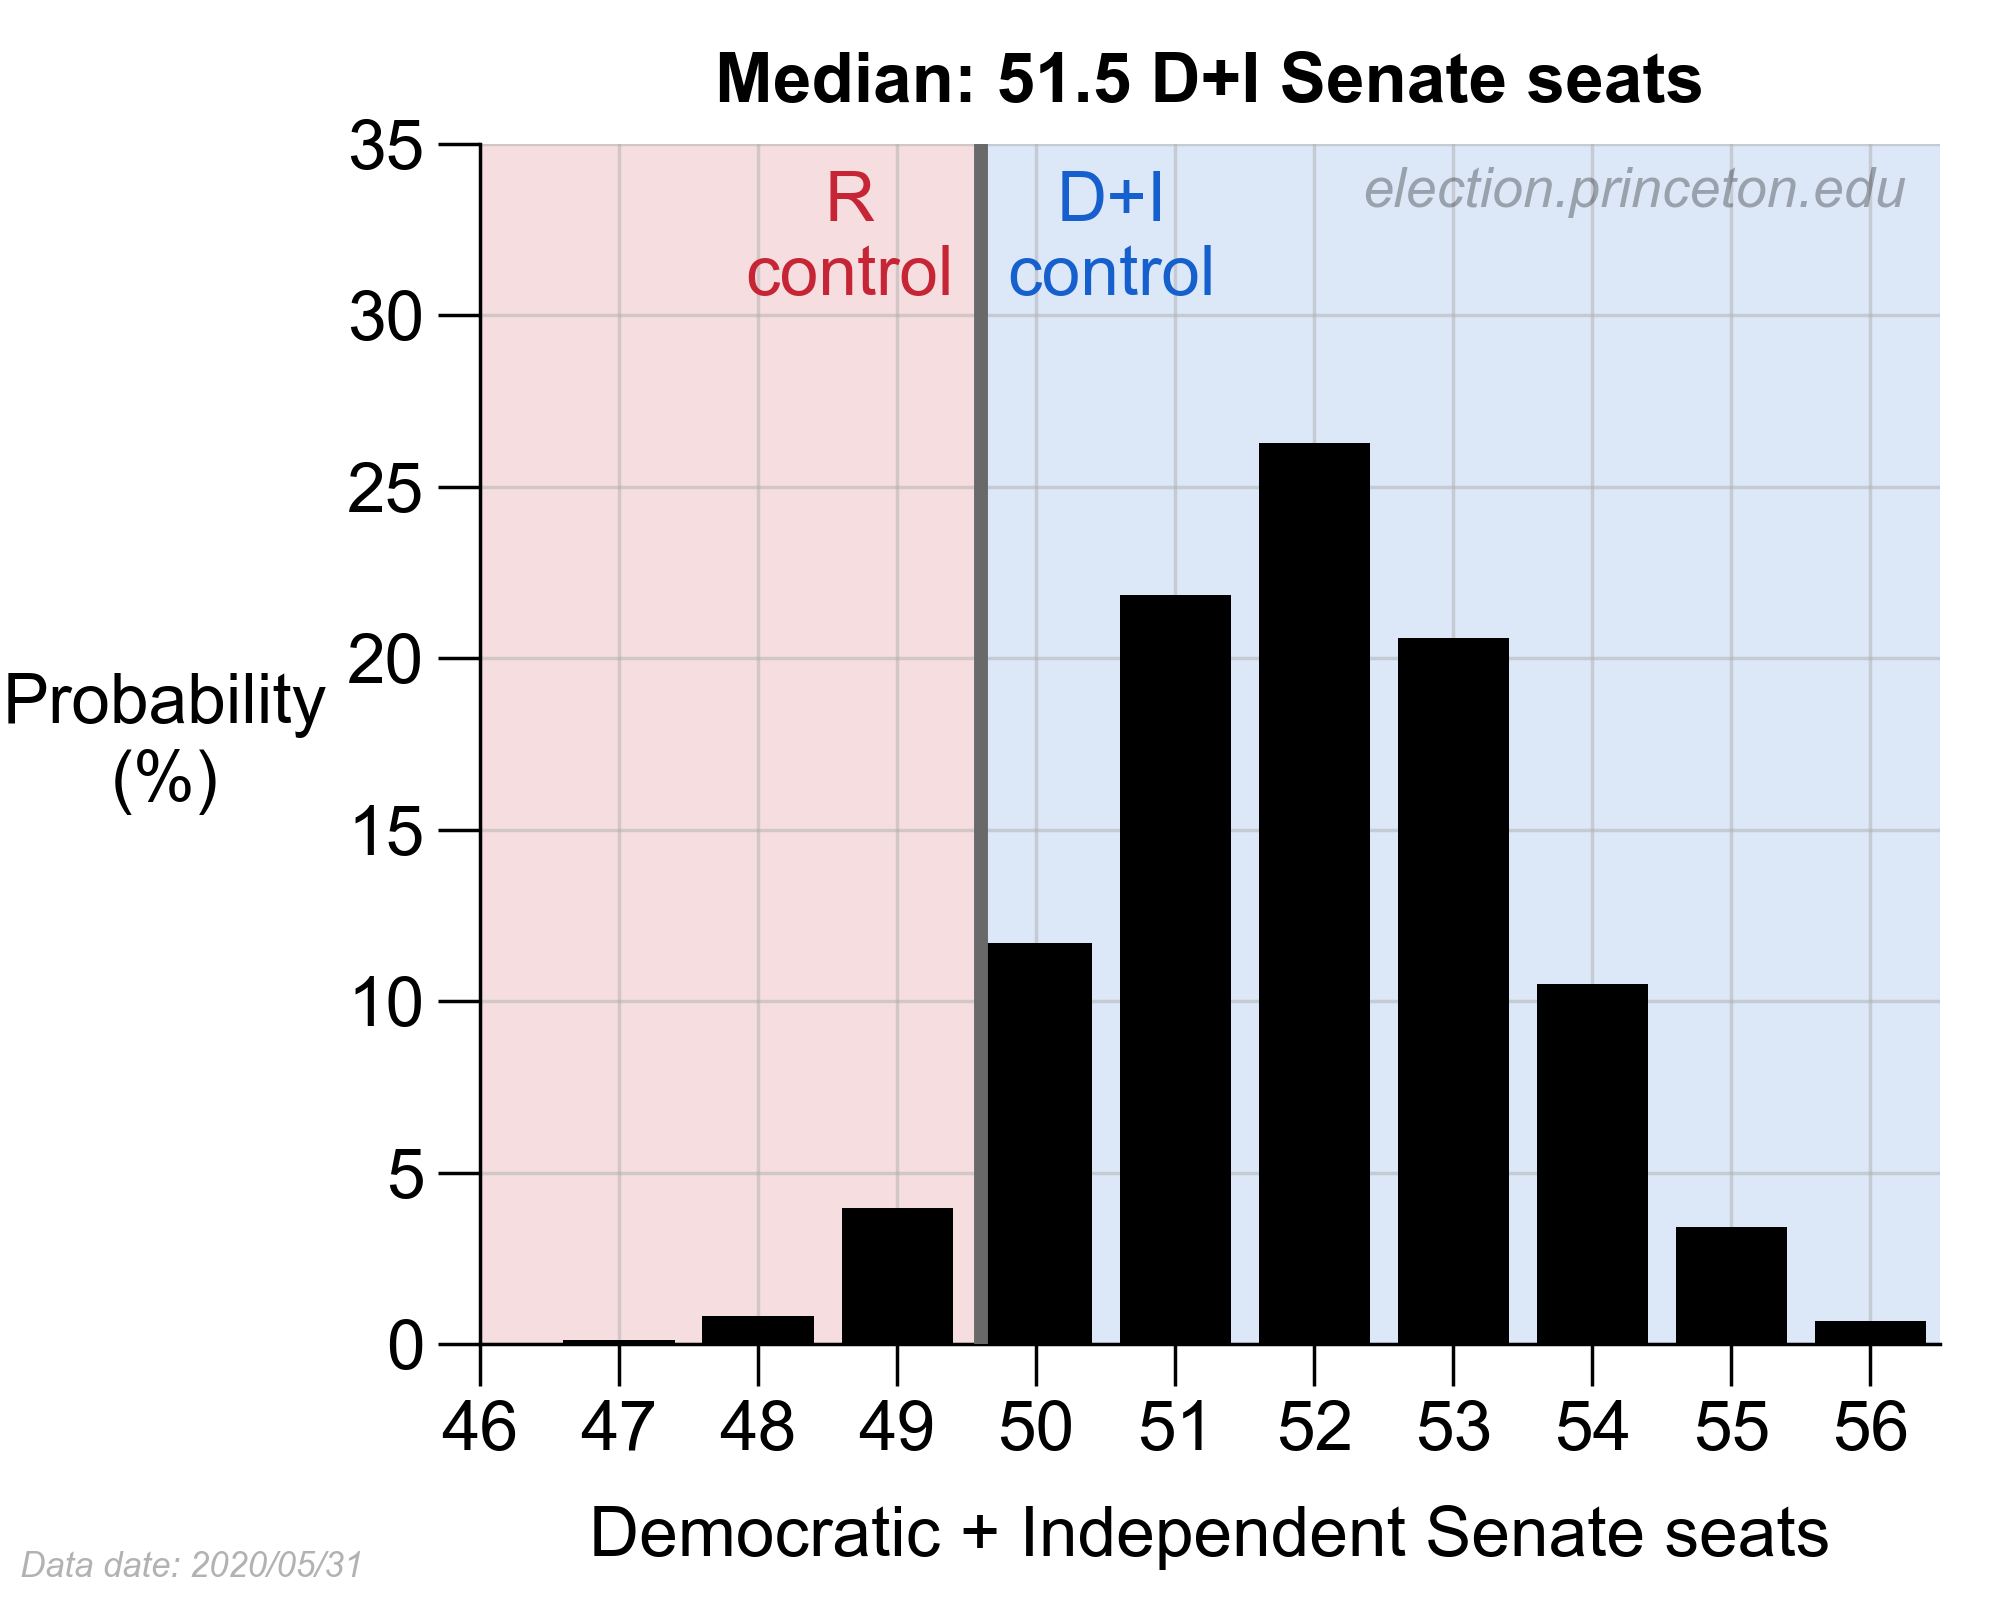
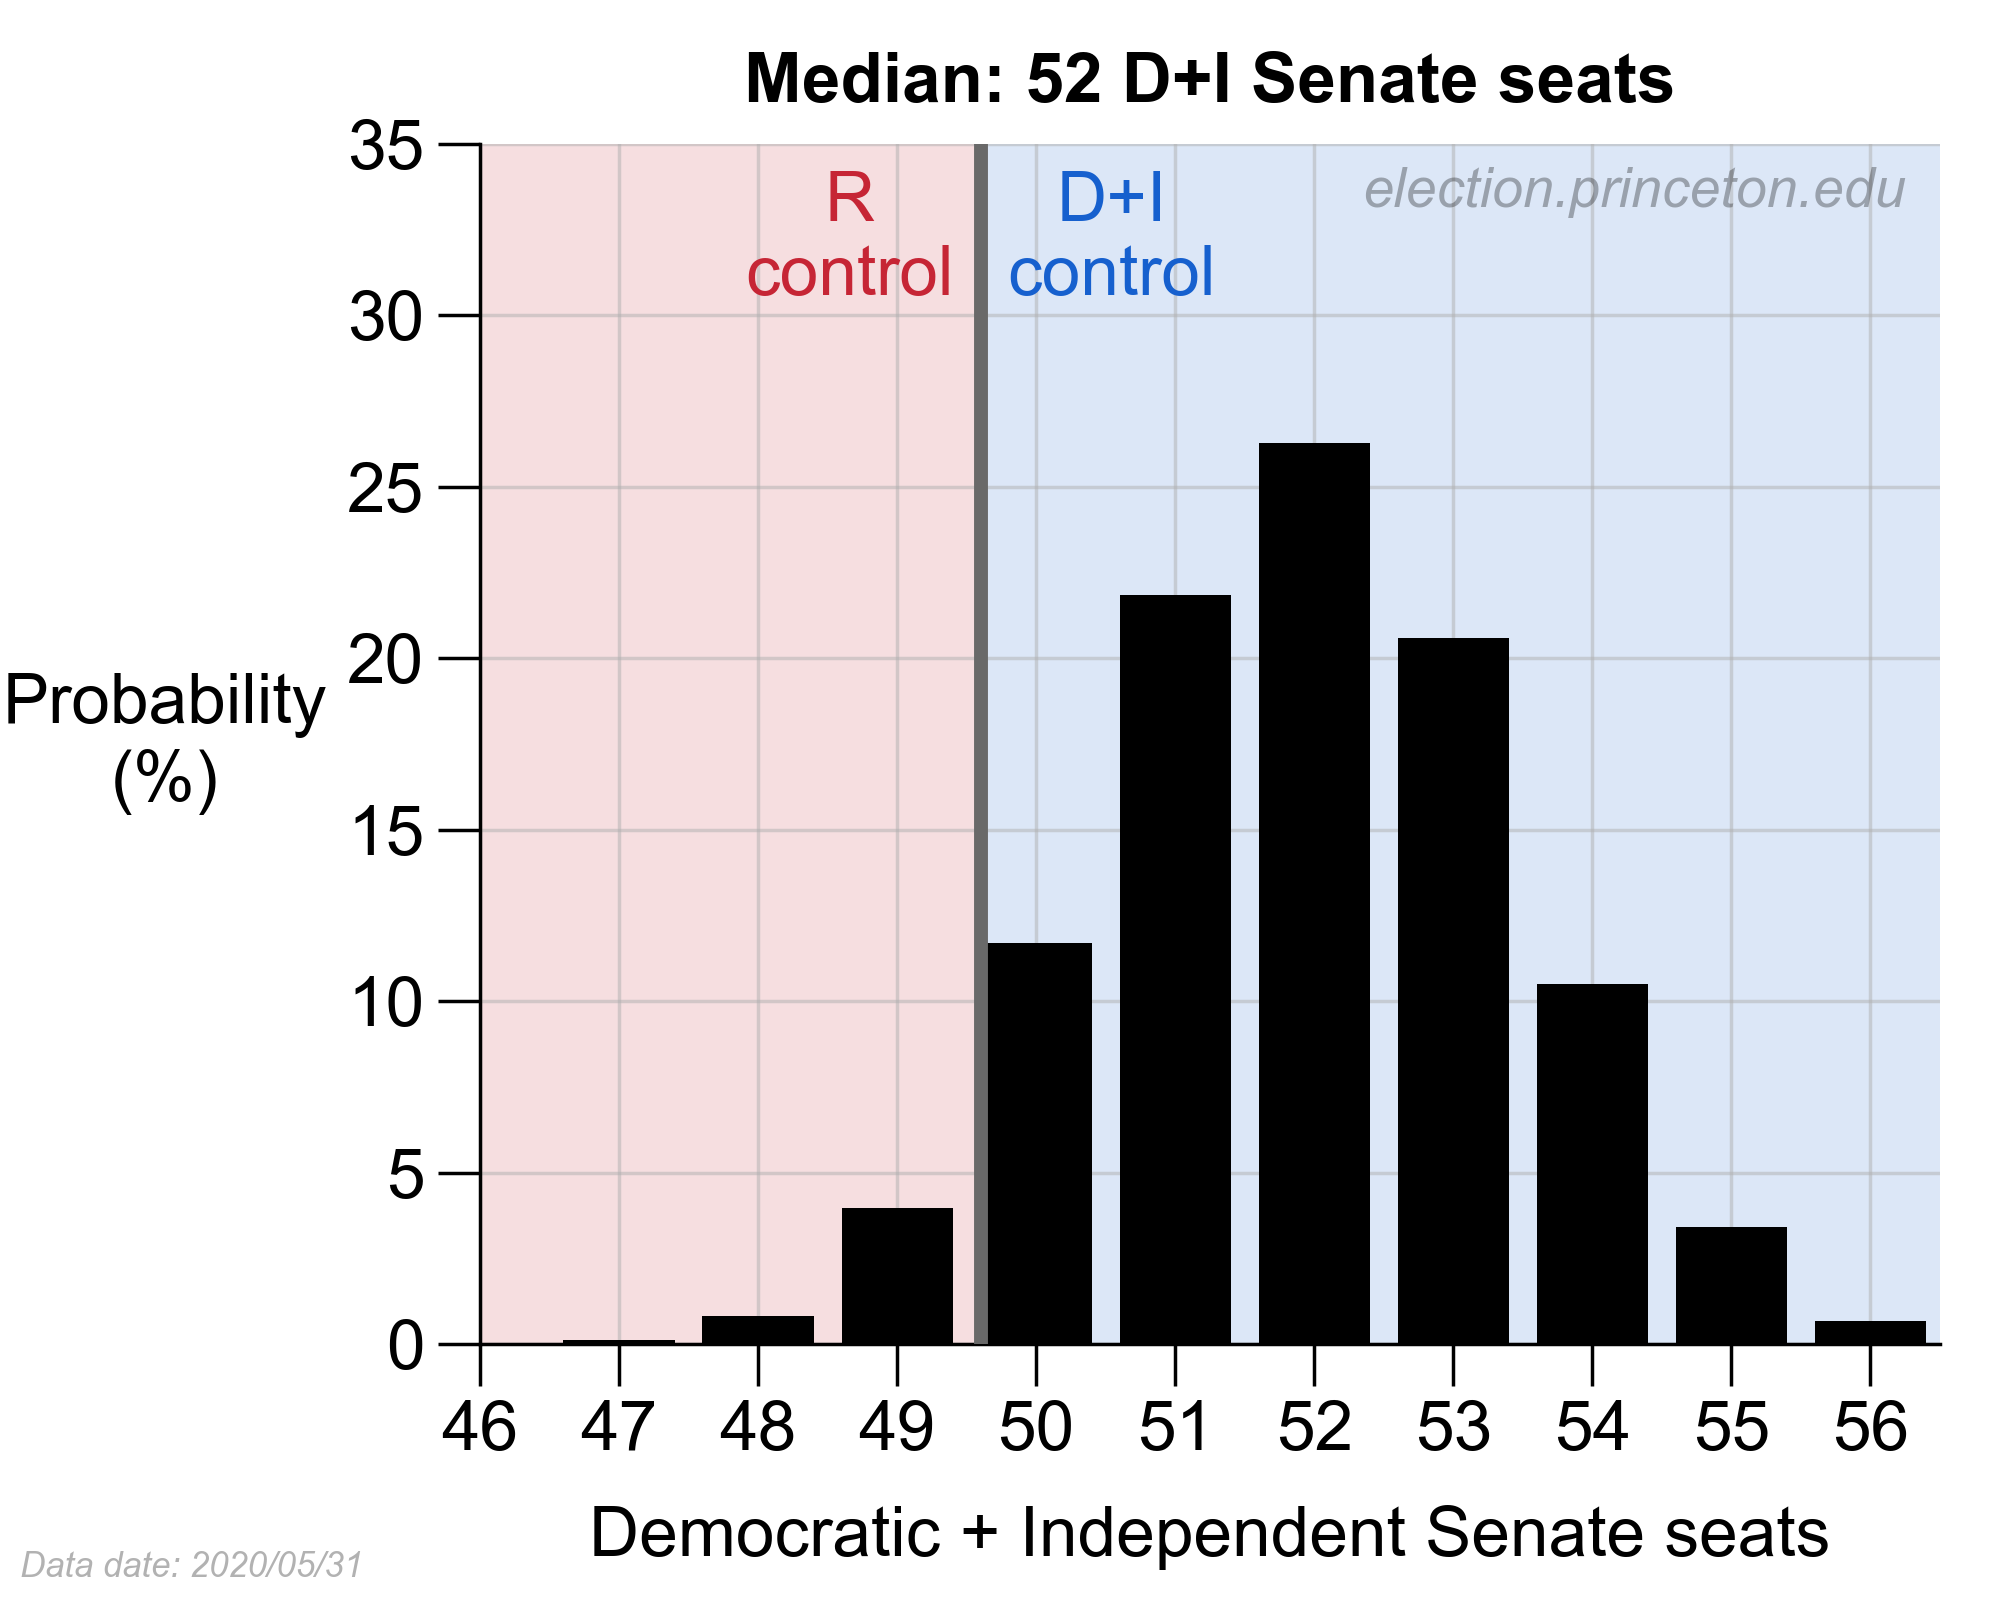
median update

Changed region(s): [[0.341, 0.0312, 0.868, 0.0625]]

diff --git a/python_graphics/main.py b/python_graphics/main.py
@@ -57,10 +57,6 @@ generate_line_plot(
         hline_lab_pad = 0.05,
         color_reverse = True,
         out_path=path)
-'''
-* Electoral vote time series: can it please have the red/yellow strike zone of 1-sigma and 2-sigma November outcomes? The zones can be a more neutral color too, like dark gray/light gray.
-* Electoral vote time series: can there please be a shaded zone, as done for the Senate time series?
-'''
 
 # plot 3
 path = os.path.join(out_dir, 'senate_histogram')
@@ -74,7 +70,7 @@ generate_histogram(
         ylab_txt='Probability\n(%)',
         ylab_pad=0.054,
         xlab_txt = 'Democratic + Independent Senate seats',
-        title_txt='Median: {median_value:.1f} D+I Senate seats',
+        title_txt='Median: {median_value:.0f} D+I Senate seats',
         vline_xpos = 49.6,
         vline_labels = ['R\ncontrol', 'D+I\ncontrol'],
         out_path=path)

diff --git a/python_graphics/plotting.py b/python_graphics/plotting.py
@@ -524,9 +524,10 @@ def generate_histogram(
     def compute_rv_median(p, xs):
         p = p/np.sum(p)
         cum = np.cumsum(p)
-        x1 = xs[np.argwhere(cum <= 0.5).squeeze()[-1]]
-        x2 = xs[np.argwhere(cum >= 0.5).squeeze()[0]]
-        return np.mean([x1, x2])
+        #x1 = xs[np.argwhere(cum <= 0.5).squeeze()[-1]]
+        #x2 = xs[np.argwhere(cum >= 0.5).squeeze()[0]]
+        #return np.mean([x1, x2])
+        return xs[np.argwhere(cum>=0.5).squeeze()[0]]
     title_fillers = dict(mean_value = np.sum(data * xvals) / np.sum(data),
                          median_value = compute_rv_median(data, xvals),
                         )
